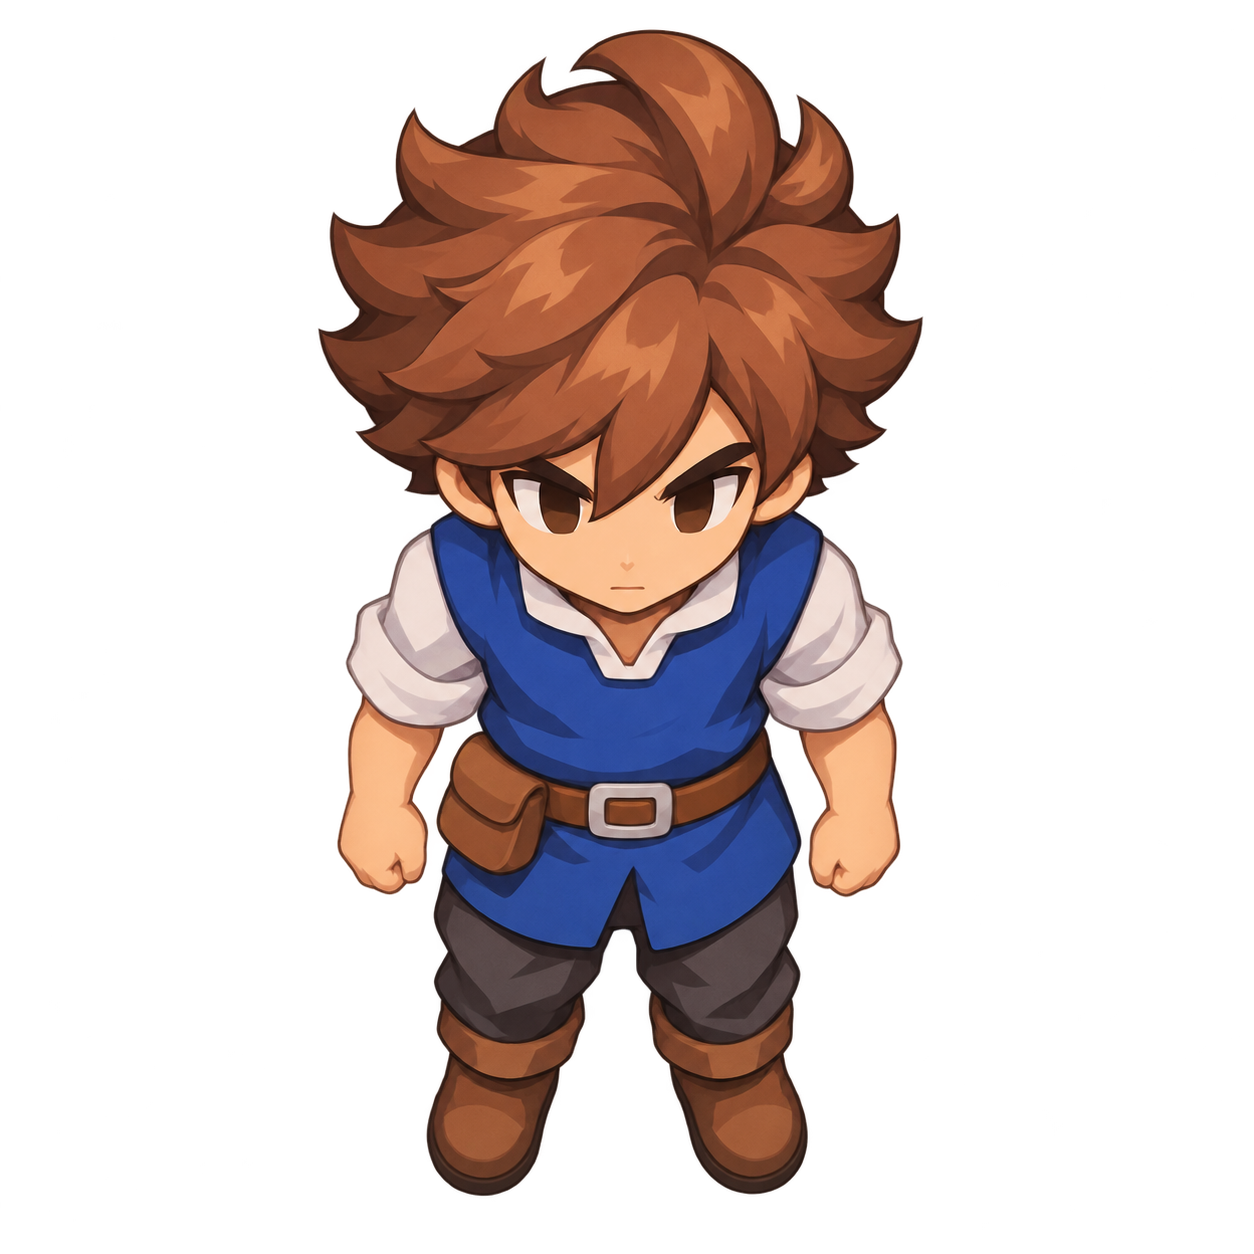
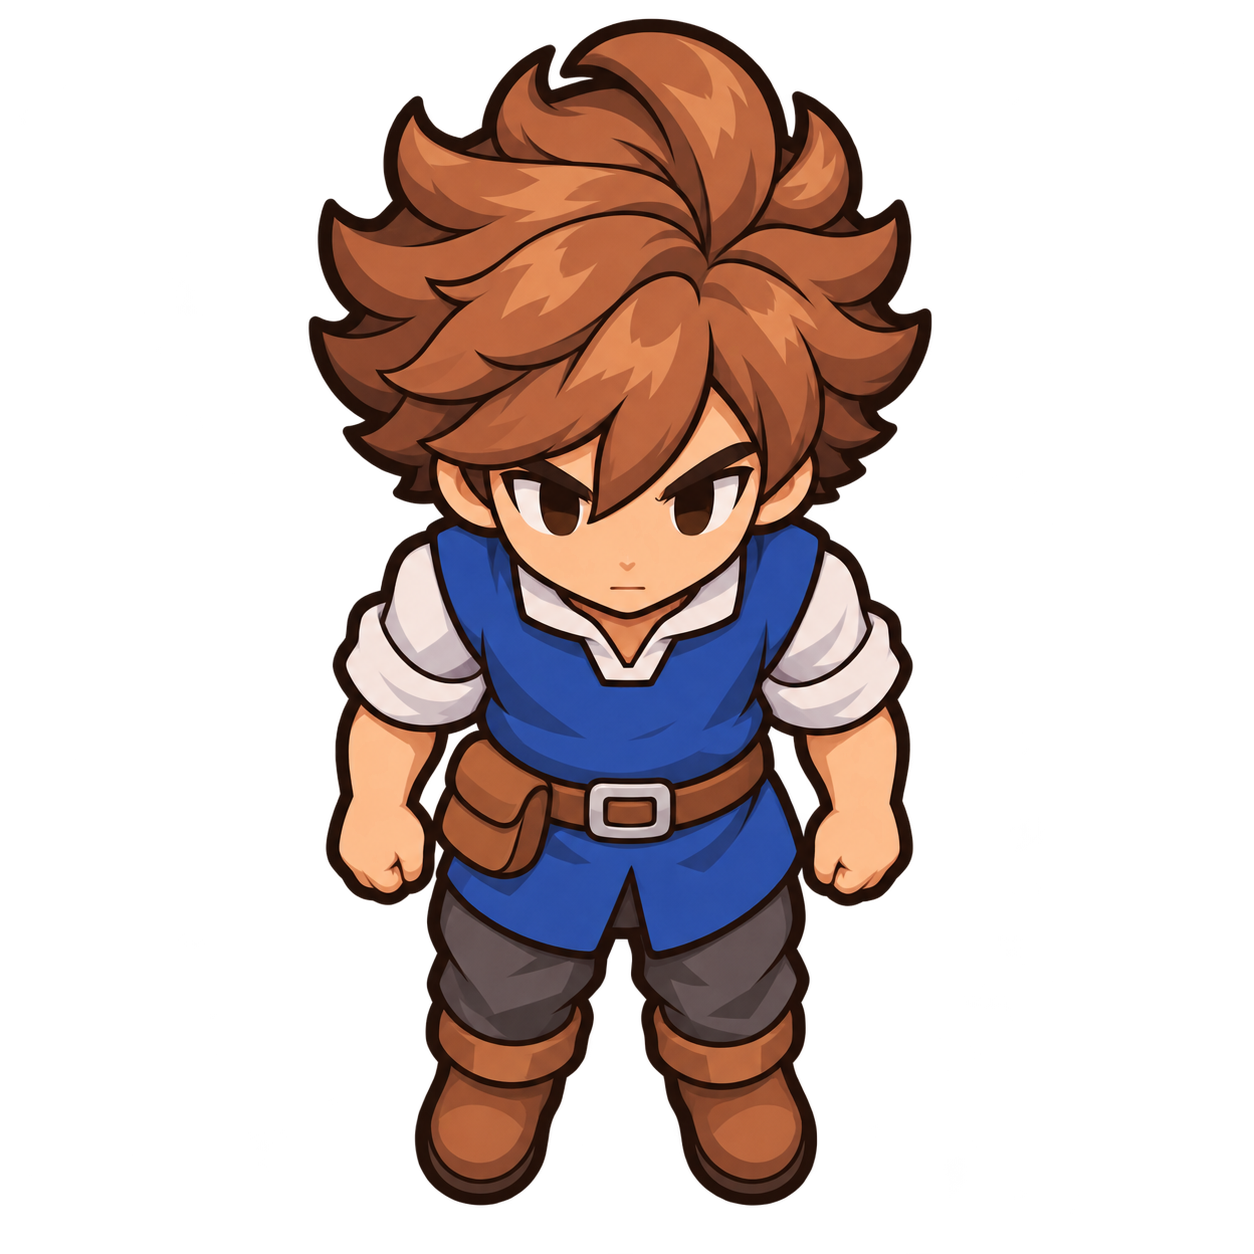
assets: replace approved 2D hero reference with outlined revision

Changed region(s): [[0.2488, 0.0, 0.7464, 0.9641]]

diff --git a/GRAPHICS_GUIDELINES.md b/GRAPHICS_GUIDELINES.md
@@ -20,10 +20,10 @@
 
 ### RF-GRAPHICS-REFERENCE-001 — затверджений непіксельний 2D-референс героя (06.11.2026)
 
-Власник переглянув майстер і порівняння та явно затвердив результат і його збереження: «Зберігай, все добре».
+06.11.2026 власник затвердив оновлений майстер із виразними темними контурами за початковим піксельним еталоном і доручив замінити попередній 2D-референс: «Добре, видаляй старий додавай новий». Збережено гладкий непіксельний стиль, дизайн героя та прозоре тло.
 
[1 lines of base64/hex data omitted]
-- **Порівняння:** [base_hero_2d_comparison_v1.png](assets_source/character_concepts/base_hero_2d_comparison_v1.png), PNG RGB **1500×1100 px**: затверджений художній еталон, фактичний кадр S зі збільшенням Nearest ×12 та новий майстер; унизу — кадр 48×64 у 1×.
[1 lines of base64/hex data omitted]
+- **Історичне порівняння попередньої редакції без посилених контурів (не чинний майстер):** [base_hero_2d_comparison_v1.png](assets_source/character_concepts/base_hero_2d_comparison_v1.png), PNG RGB **1500×1100 px**: затверджений художній еталон, фактичний кадр S зі збільшенням Nearest ×12 та новий майстер; унизу — кадр 48×64 у 1×.
 - **Призначення:** якісний художній еталон для подальших концептів середовища, виробничих референсів об'єктів та композицій масштабу. Це звичайна стилізована 2D-графіка; гладкі контури й напівпрозорі пікселі допустимі. Висока роздільність майстра не задає ігровий масштаб.
 - **Збережена ідентичність:** каштанове волосся, синій верх поверх білої сорочки, коричневий пояс і сумка на анатомічному правому боці, темні штани, коричневі чоботи; високий ракурс C у напрямку S. Суворіший вираз обличчя та деталізація складок були показані власнику перед прийманням.
 - **Межі:** затверджено цей художній майстер. Початковий аркуш героя, атлас і кадри 48×64 залишаються чинними й не замінюються. Інші ракурси, анімації, нові концепти поселення, спрайти та інтеграція не виконувалися цим завданням. Подальші етапи потребують окремого доручення.
